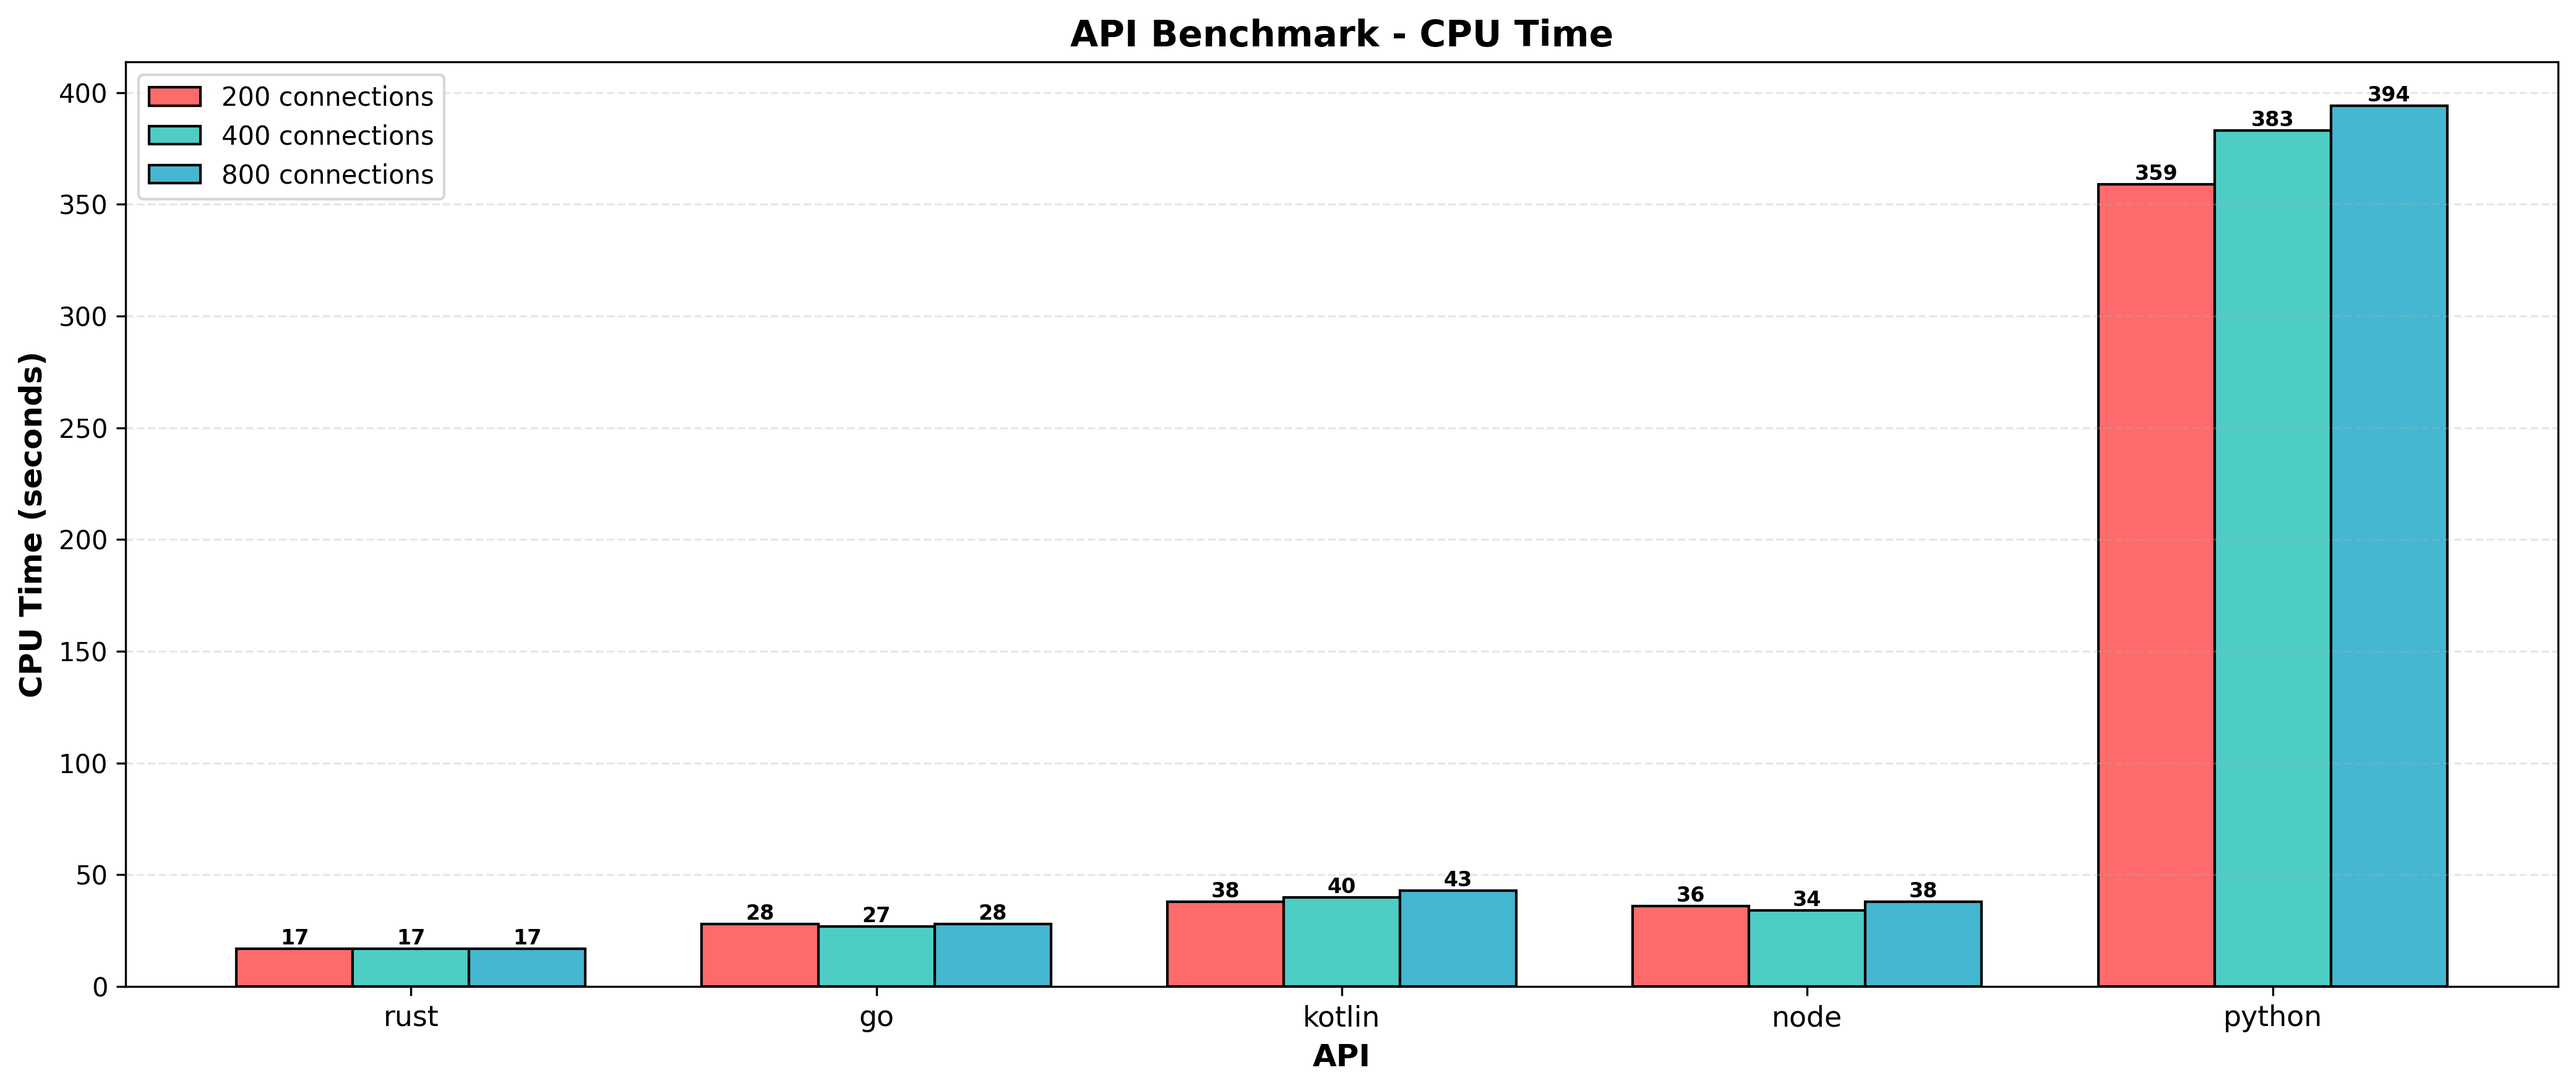
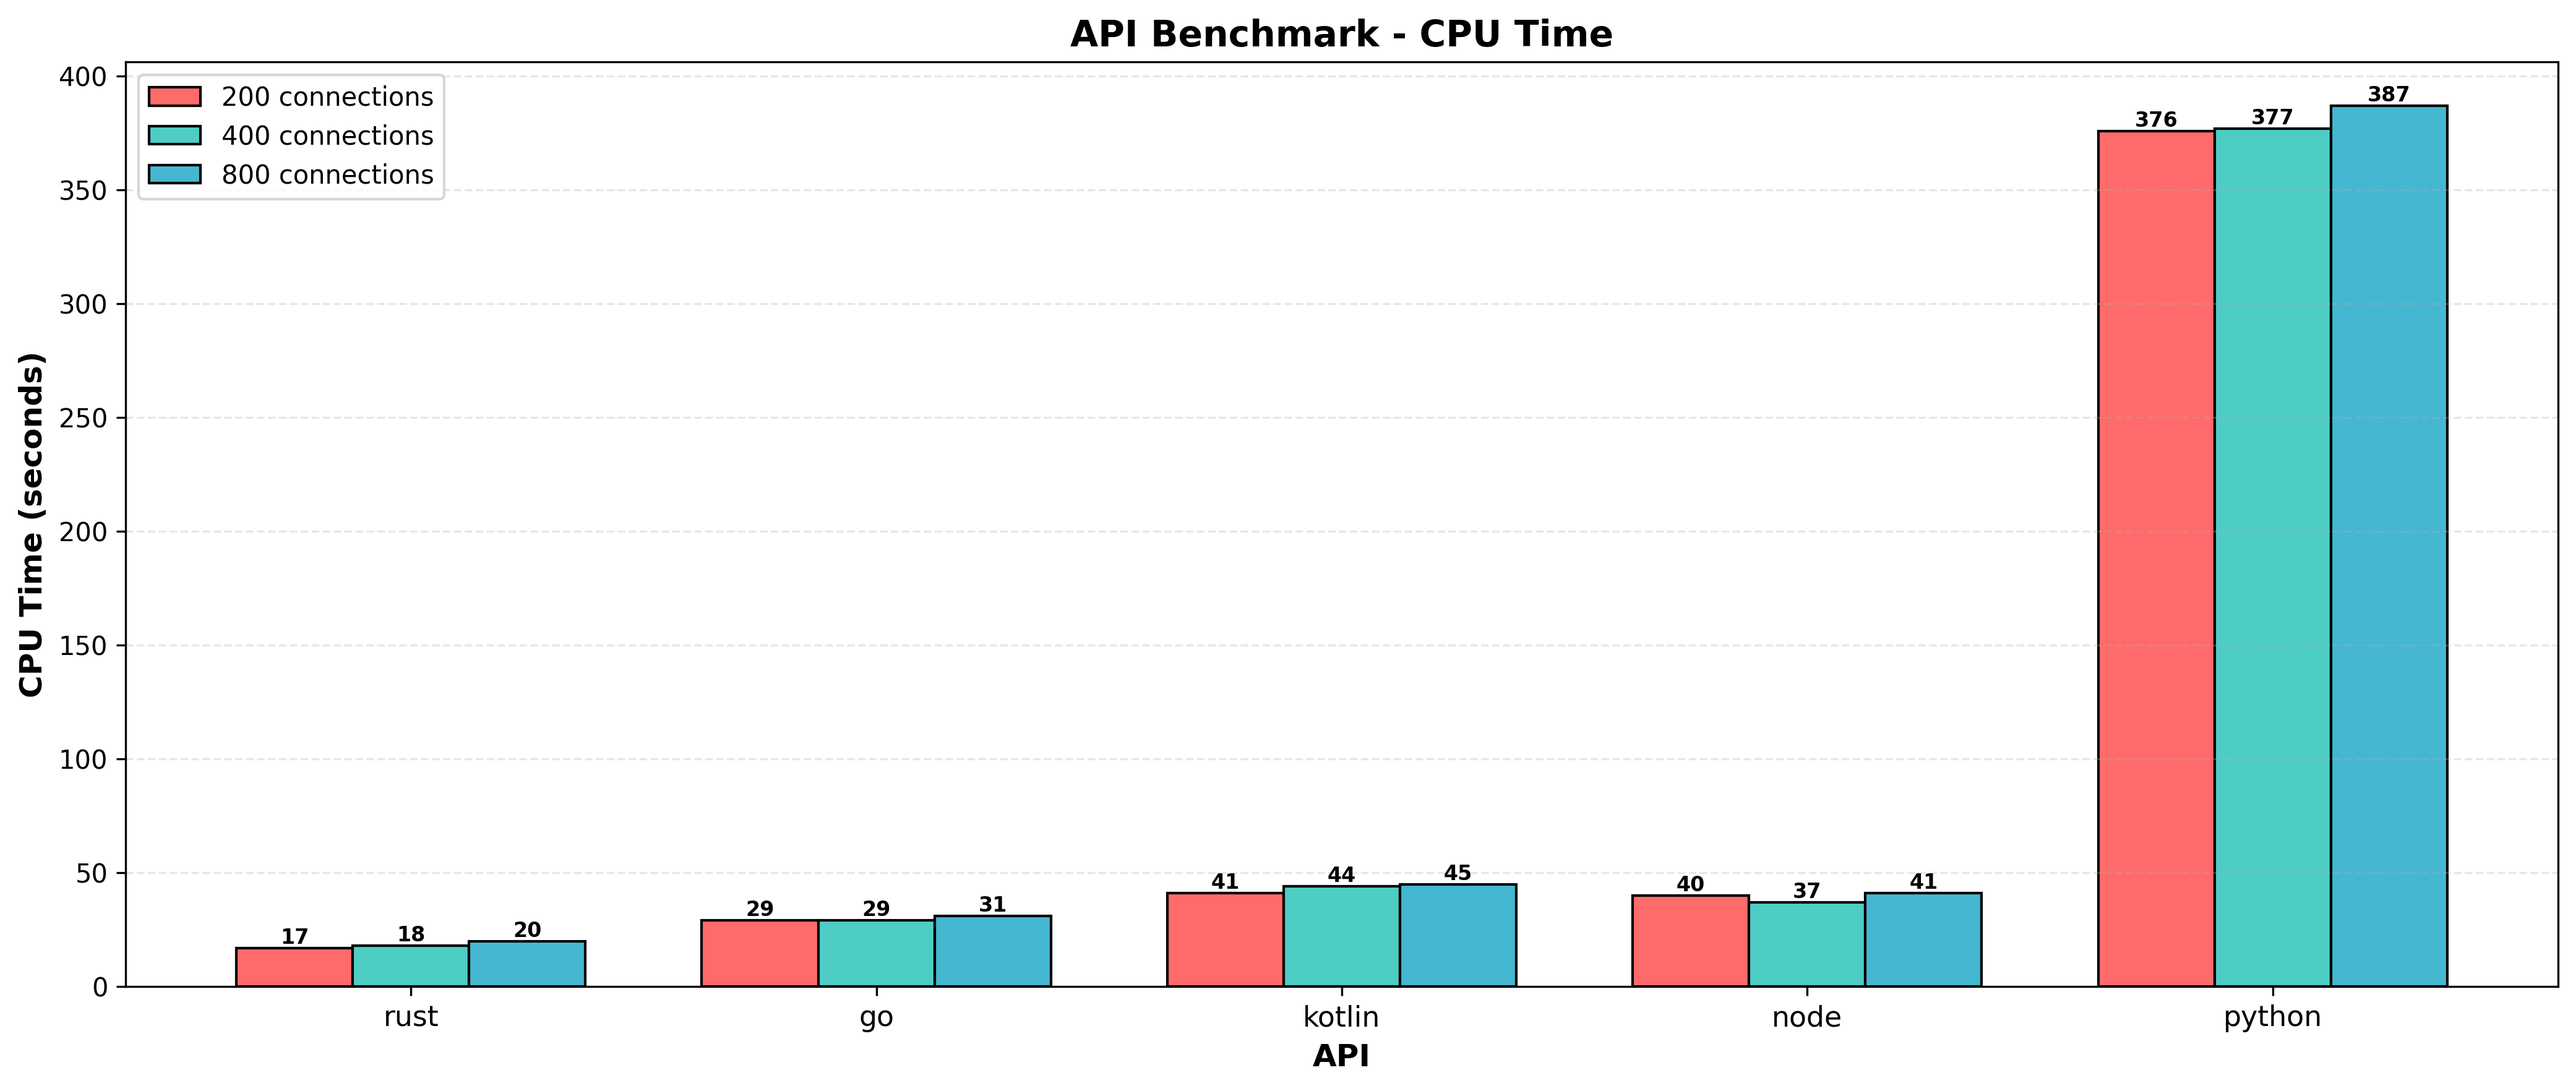
results from github actions autocommit

diff --git a/results/raw.md b/results/raw.md
@@ -1,6 +1,6 @@
 # Results
 ## Timestamp
-Wed Jan 14 11:09:25 UTC 2026
+Fri Jan 16 11:18:45 UTC 2026
 ## Hardware Info
 | CPU Model | Num CPUs | Memory |
 | --------- | -------- | ------ |
@@ -9,18 +9,18 @@ Wed Jan 14 11:09:25 UTC 2026
 ## Benchmarks of 1 Million Requests
 | Test Name | HTTP Conns | Success Rate | Test Seconds | Requests per Second | P50 Millis | P99 Millis | P99.9 Millis | API Memory MB | API CPU Time | API Threads | API Processes |
 | --------- | ---------- | ------------ | ------------ | ------------------- | ---------- | ---------- | ------------ | ------------- | ------------ | ----------- | ------------- |
-| rust | 200 | 100.0% | 8.7 | 114661.3 | 1.6260 | 4.5069 | 6.0806 | 8.4 | 00:00:17 | 5 | 1 |
-| rust | 400 | 100.0% | 8.7 | 114075.4 | 3.2885 | 7.5003 | 10.5076 | 12.9 | 00:00:17 | 5 | 1 |
-| rust | 800 | 100.0% | 8.7 | 115241.6 | 6.8584 | 11.5377 | 17.4313 | 22.2 | 00:00:17 | 5 | 1 |
-| go | 200 | 100.0% | 11.9 | 83367.3 | 1.8751 | 7.6391 | 10.7832 | 17.5 | 00:00:28 | 11 | 1 |
-| go | 400 | 100.0% | 11.5 | 86921.3 | 3.8946 | 13.7510 | 19.6762 | 24.2 | 00:00:27 | 11 | 1 |
-| go | 800 | 100.0% | 11.9 | 84127.9 | 8.4995 | 26.3609 | 39.6796 | 38.0 | 00:00:28 | 11 | 1 |
-| kotlin | 200 | 100.0% | 14.1 | 70500.8 | 1.9562 | 12.1382 | 33.4191 | 499.4 | 00:00:38 | 31 | 1 |
-| kotlin | 400 | 100.0% | 14.7 | 67633.9 | 4.7446 | 23.8231 | 59.2314 | 531.6 | 00:00:40 | 30 | 1 |
-| kotlin | 800 | 100.0% | 15.8 | 63309.5 | 10.1966 | 41.8951 | 138.6918 | 623.1 | 00:00:43 | 30 | 1 |
-| node | 200 | 100.0% | 36.3 | 27497.3 | 6.2516 | 9.8017 | 11.9840 | 106.0 | 00:00:36 | 7 | 1 |
-| node | 400 | 100.0% | 34.2 | 29182.2 | 11.9481 | 19.6824 | 26.9115 | 139.9 | 00:00:34 | 7 | 1 |
-| node | 800 | 100.0% | 37.6 | 26565.9 | 26.8286 | 43.0949 | 54.7928 | 150.4 | 00:00:38 | 7 | 1 |
-| python | 200 | 97.3% | 100.7 | 9737.2 | 21.4001 | 36.0551 | 40.3254 | 134.0 | 00:05:59 | 5 | 5 |
-| python | 400 | 100.0% | 106.1 | 9443.2 | 41.9184 | 56.3097 | 62.6455 | 135.3 | 00:06:23 | 5 | 5 |
-| python | 800 | 100.0% | 109.4 | 9217.9 | 78.9083 | 139.8407 | 149.7122 | 144.1 | 00:06:34 | 5 | 5 |
+| rust | 200 | 100.0% | 9.2 | 108469.2 | 1.6967 | 4.6163 | 6.1275 | 8.4 | 00:00:17 | 5 | 1 |
+| rust | 400 | 100.0% | 9.3 | 106965.0 | 3.5516 | 7.9796 | 10.9863 | 12.9 | 00:00:18 | 5 | 1 |
+| rust | 800 | 100.0% | 10.3 | 96794.7 | 8.1807 | 12.5500 | 19.1226 | 22.1 | 00:00:20 | 5 | 1 |
+| go | 200 | 100.0% | 12.4 | 80171.5 | 1.9456 | 8.0134 | 11.0219 | 17.6 | 00:00:29 | 10 | 1 |
+| go | 400 | 100.0% | 12.3 | 80719.3 | 4.2220 | 14.9404 | 21.0252 | 24.7 | 00:00:29 | 10 | 1 |
+| go | 800 | 100.0% | 13.3 | 75212.0 | 9.6823 | 28.0913 | 42.3213 | 37.8 | 00:00:31 | 13 | 1 |
+| kotlin | 200 | 100.0% | 15.1 | 65729.2 | 2.1062 | 13.6826 | 37.0402 | 519.6 | 00:00:41 | 30 | 1 |
+| kotlin | 400 | 100.0% | 16.2 | 61305.5 | 5.3648 | 21.9520 | 59.9733 | 526.6 | 00:00:44 | 30 | 1 |
+| kotlin | 800 | 100.0% | 17.0 | 58837.1 | 11.3482 | 38.8974 | 76.1511 | 548.8 | 00:00:45 | 30 | 1 |
+| node | 200 | 100.0% | 39.8 | 25090.5 | 6.7910 | 10.5736 | 12.7595 | 106.1 | 00:00:40 | 7 | 1 |
+| node | 400 | 100.0% | 37.2 | 26861.8 | 13.1709 | 19.9984 | 23.5085 | 139.4 | 00:00:37 | 7 | 1 |
+| node | 800 | 100.0% | 40.8 | 24467.1 | 28.1672 | 43.3855 | 48.9070 | 149.9 | 00:00:41 | 7 | 1 |
+| python | 200 | 100.0% | 104.8 | 9563.3 | 15.7089 | 50.5784 | 54.0877 | 134.7 | 00:06:16 | 5 | 5 |
+| python | 400 | 100.0% | 104.6 | 9539.2 | 32.2569 | 101.9490 | 111.0394 | 135.3 | 00:06:17 | 5 | 5 |
+| python | 800 | 100.0% | 106.7 | 9727.8 | 83.5268 | 108.8223 | 122.5606 | 144.1 | 00:06:27 | 5 | 5 |

diff --git a/results/latest.md b/results/latest.md
@@ -1,6 +1,6 @@
 # Latest Results
 
-Timestamp: `Wed Jan 14 11:09:25 UTC 2026`
+Timestamp: `Fri Jan 16 11:18:45 UTC 2026`
 
 ## Requests Per Second
 ![Requests Per Second](rps.png)
